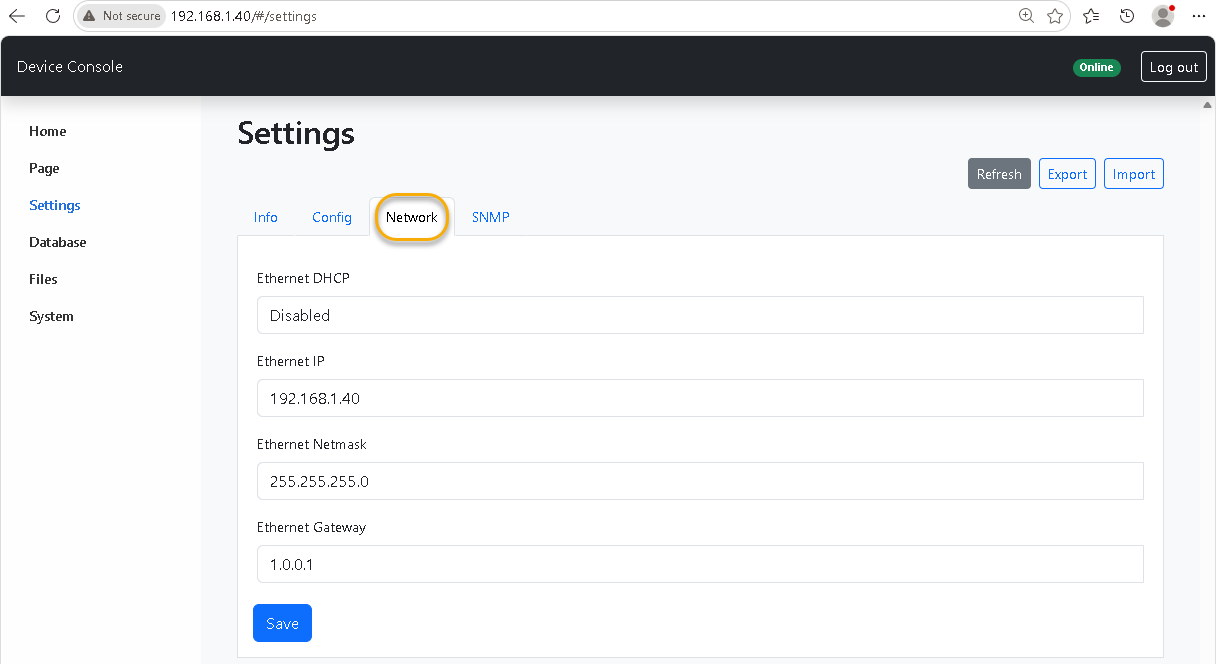
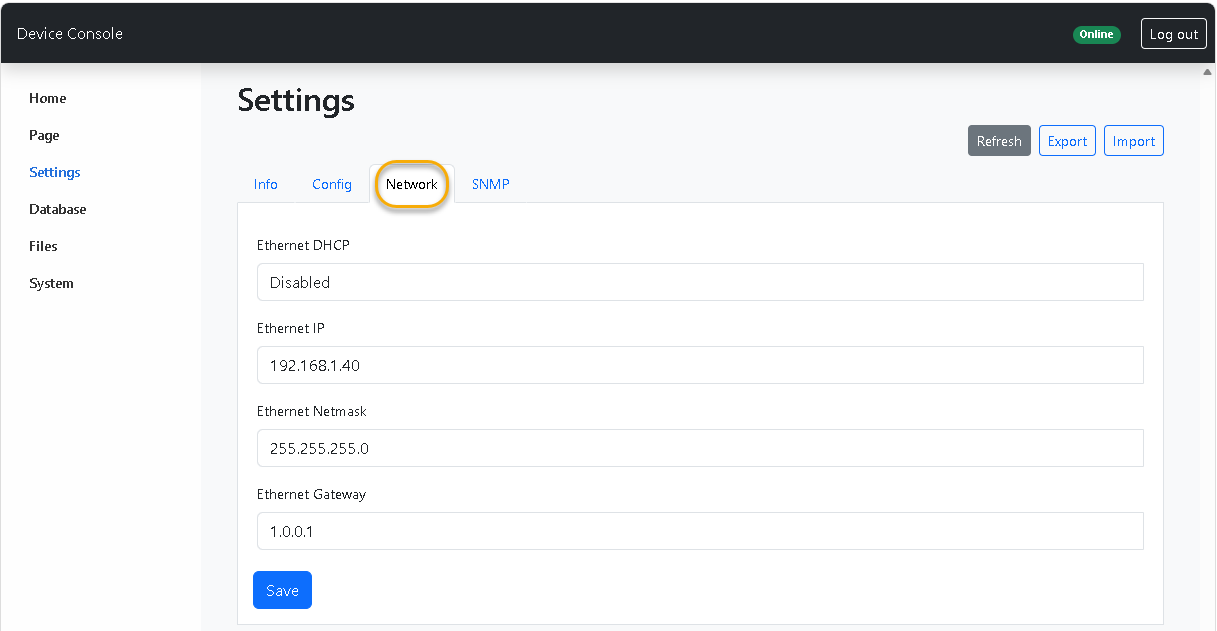
chores: - doc: revised datasheet.md - image: added assets/snmp_modbus_gateway_webconsole_settings.png - image: cropped assets/snmp_modbus_gateway_ethernet_config.png

diff --git a/datasheet.md b/datasheet.md
@@ -83,7 +83,7 @@ Modbus equipment instead of being limited to a single sensor or meter.
 
 ## 4. Web Console
 
-### Database
+### 4.1 Database
 For every value you want to monitor, configure the gateway with the relevant
 Modbus device and register. The gateway reads that register at the configured
 polling interval (5 seconds by default) and makes the latest value available to
@@ -108,7 +108,7 @@ your SNMP monitoring system.
 
 <br>
 
-### Database column reference
+### Column reference
 
 The following table explains the columns shown in the Web Console database
 tables.
@@ -135,13 +135,50 @@ tables.
 
 <br>
 
----
+### 4.2 Settings
 
-## 5. SNMP access and object addressing
+Use the Settings area to review device information and configure polling,
+network, and SNMP access. 
+
+> Reminder: restart the device after changing any setting so the
+> new value is applied.
+
+<br>
+
+#### 4.2.1 Info
+
+The **Info** group provides maintenance and capacity information.
+
+![Web Console Settings, Info group](https://raw.githubusercontent.com/imcase/Im_snmp_modbus_gateway_assets/refs/heads/main/assets/snmp_modbus_gateway_webconsole_settings.png)
+
+<br>
+
+#### 4.2.2 Config
+
+The Config group lets you set the polling interval and enable or disable debug
+output. Use the polling interval appropriate for the connected Modbus device
+and the required update rate.
+
+<br>
+
+#### 4.2.3 Network
+
+The Network group lets you enable DHCP or configure a static Ethernet IP
+address, netmask, and gateway. When DHCP is enabled, the static Ethernet
+address fields are unavailable.
+
+<br>
+
+#### 4.2.4 SNMP
 
 SNMP managers can read gateway values with `snmpget` or `snmpwalk`. Where
 write access is configured and authorized, they can also update supported
 values with `snmpset`.
+
+The SNMP group lets you configure the SNMP port, read and write communities,
+system description, system object ID, and SNMPv3 user, authentication, and
+privacy settings. Use the organization-approved credentials and security
+settings before deploying the gateway.
 
 > **Warning:** SNMP writes can affect connected equipment. Enable write access
 > only for approved control points and authorized users.
@@ -171,7 +208,11 @@ snmpget -v2c -c <bench-community> -On <gateway-ip> \
   1.3.6.1.4.1.20738.1.<column>.0
 ```
 
-## 6. RS-485 installation
+<br>
+
+--- 
+
+## 5. RS-485 installation
 
 Power down equipment before connecting the field bus. Wire the RS-485 pair to
 the matching terminals for the fitted Tibbit/socket configuration.
@@ -204,7 +245,7 @@ Stop bits: 1
 Unit ID:   1
 ```
 
-## 7. Commissioning checklist
+## 6. Commissioning checklist
 
 1. Record the field device's Modbus register map, communication parameters,
    data representation, and expected engineering values.
@@ -221,7 +262,7 @@ Unit ID:   1
 8. Where a write mapping is deliberately enabled, test it in a safe bench
    setup and verify the resulting field-device register separately.
 
-## 8. Troubleshooting
+## 7. Troubleshooting
 
 | Symptom | Checks |
 | --- | --- |
@@ -231,7 +272,7 @@ Unit ID:   1
 | SNMP SET fails | Confirm that the object is configured read/write, the caller is authorized, the write mapping exists, and the field device accepts the function/value. |
 | Value has the wrong magnitude | Check signedness, scale factor, register count, and byte/word order. |
 
-## 9. Deployment record
+## 8. Deployment record
 
 Keep this record with each installed gateway:
 
